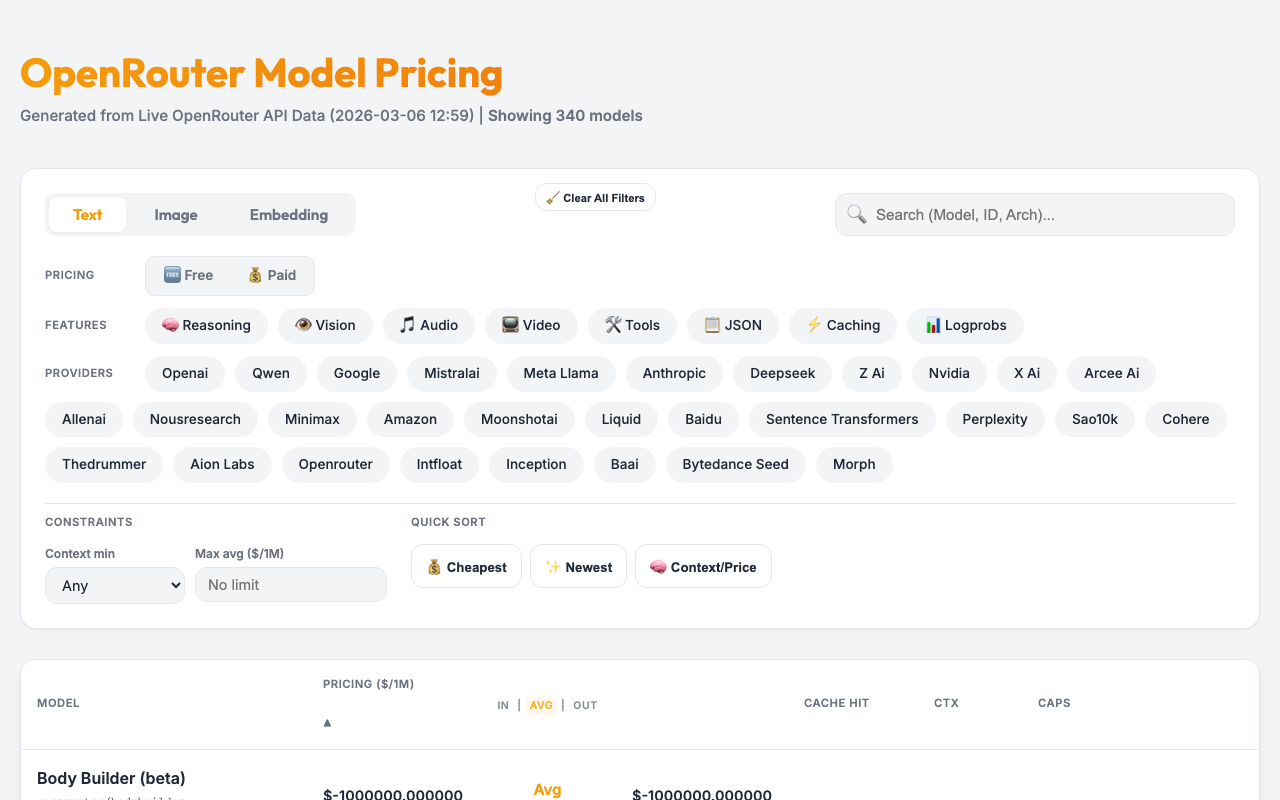
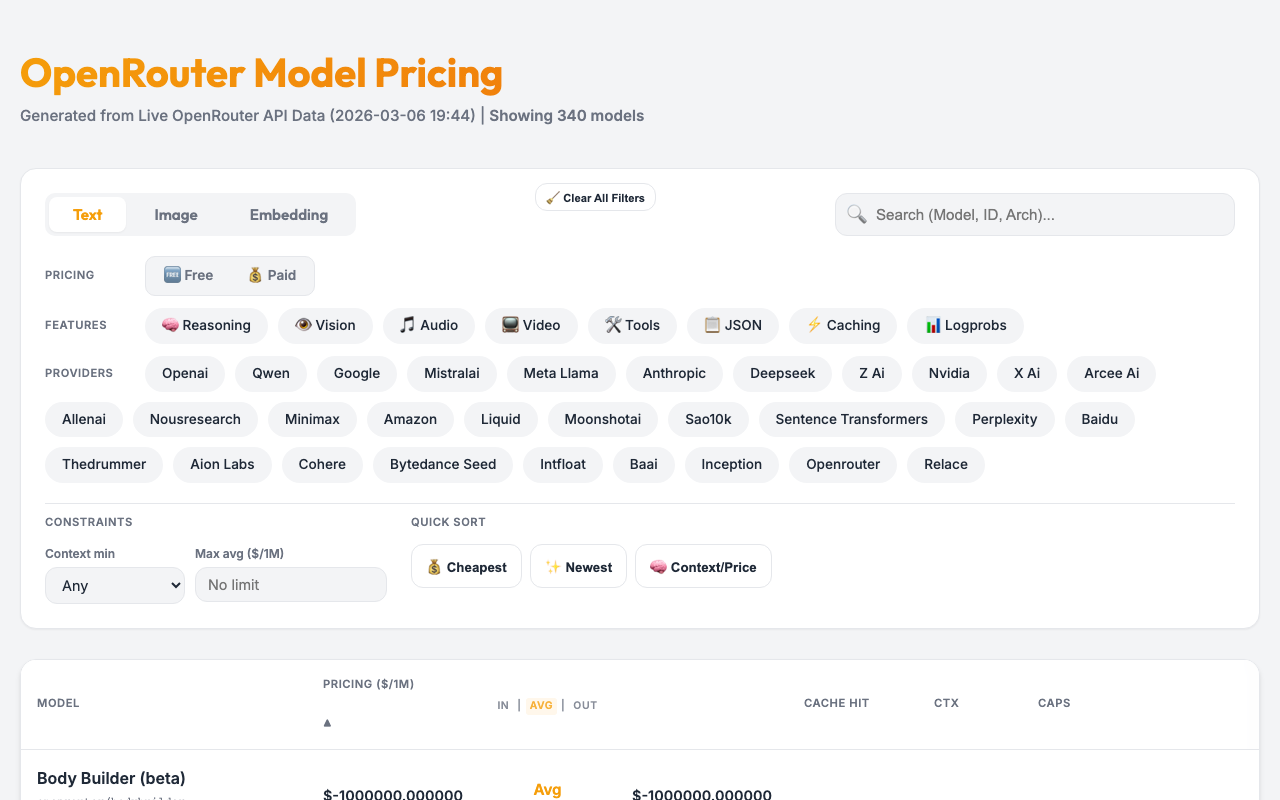
chore: automated pricing update (2026-03-06 19:44:48)
🔄 Changed Models (1): z-ai/glm-4.7

diff --git a/docs/index.html b/docs/index.html
@@ -634,7 +634,7 @@
     <div class="container">
         <header>
             <h1>OpenRouter Model Pricing</h1>
-            <div class="meta">Generated from Live OpenRouter API Data (2026-03-06 12:59)</div>
+            <div class="meta">Generated from Live OpenRouter API Data (2026-03-06 19:44)</div>
         </header>
 
         <div class="controls">
@@ -2945,9 +2945,9 @@
         "instruct_type": null
       },
       "pricing": {
-        "prompt": "0.0000003",
-        "completion": "0.0000014",
-        "input_cache_read": "0.00000015"
+        "prompt": "0.00000038",
+        "completion": "0.00000198",
+        "input_cache_read": "0.00000019"
       },
       "top_provider": {
         "context_length": 202752,
@@ -18736,7 +18736,7 @@
   ],
   "other": []
 };
-        window.providerOptions = ['openai', 'qwen', 'google', 'mistralai', 'meta-llama', 'anthropic', 'deepseek', 'z-ai', 'nvidia', 'x-ai', 'arcee-ai', 'allenai', 'nousresearch', 'minimax', 'amazon', 'moonshotai', 'liquid', 'baidu', 'sentence-transformers', 'perplexity', 'sao10k', 'cohere', 'thedrummer', 'aion-labs', 'openrouter', 'intfloat', 'inception', 'baai', 'bytedance-seed', 'morph', 'neversleep', 'inflection', 'relace', 'thenlper', 'stepfun', 'microsoft', 'nex-agi', 'cognitivecomputations', 'alibaba', 'alpindale', 'tngtech', 'tencent', 'raifle', 'meituan', 'eleutherai', 'bytedance', 'alfredpros', 'kwaipilot', 'undi95', 'switchpoint', 'essentialai', 'ibm-granite', 'upstage', 'writer', 'gryphe', 'ai21', 'deepcogito', 'mancer', 'anthracite-org', 'prime-intellect', 'xiaomi'];
+        window.providerOptions = ['openai', 'qwen', 'google', 'mistralai', 'meta-llama', 'anthropic', 'deepseek', 'z-ai', 'nvidia', 'x-ai', 'arcee-ai', 'allenai', 'nousresearch', 'minimax', 'amazon', 'liquid', 'moonshotai', 'sao10k', 'sentence-transformers', 'perplexity', 'baidu', 'thedrummer', 'aion-labs', 'cohere', 'bytedance-seed', 'intfloat', 'baai', 'inception', 'openrouter', 'relace', 'morph', 'inflection', 'microsoft', 'neversleep', 'stepfun', 'thenlper', 'deepcogito', 'bytedance', 'cognitivecomputations', 'upstage', 'writer', 'prime-intellect', 'xiaomi', 'ai21', 'eleutherai', 'gryphe', 'essentialai', 'alpindale', 'alibaba', 'raifle', 'meituan', 'ibm-granite', 'undi95', 'tngtech', 'nex-agi', 'kwaipilot', 'switchpoint', 'anthracite-org', 'tencent', 'mancer', 'alfredpros'];
         let currentTab = 'text';
         let sortKey = 'price_avg';
         let sortAsc = true;
